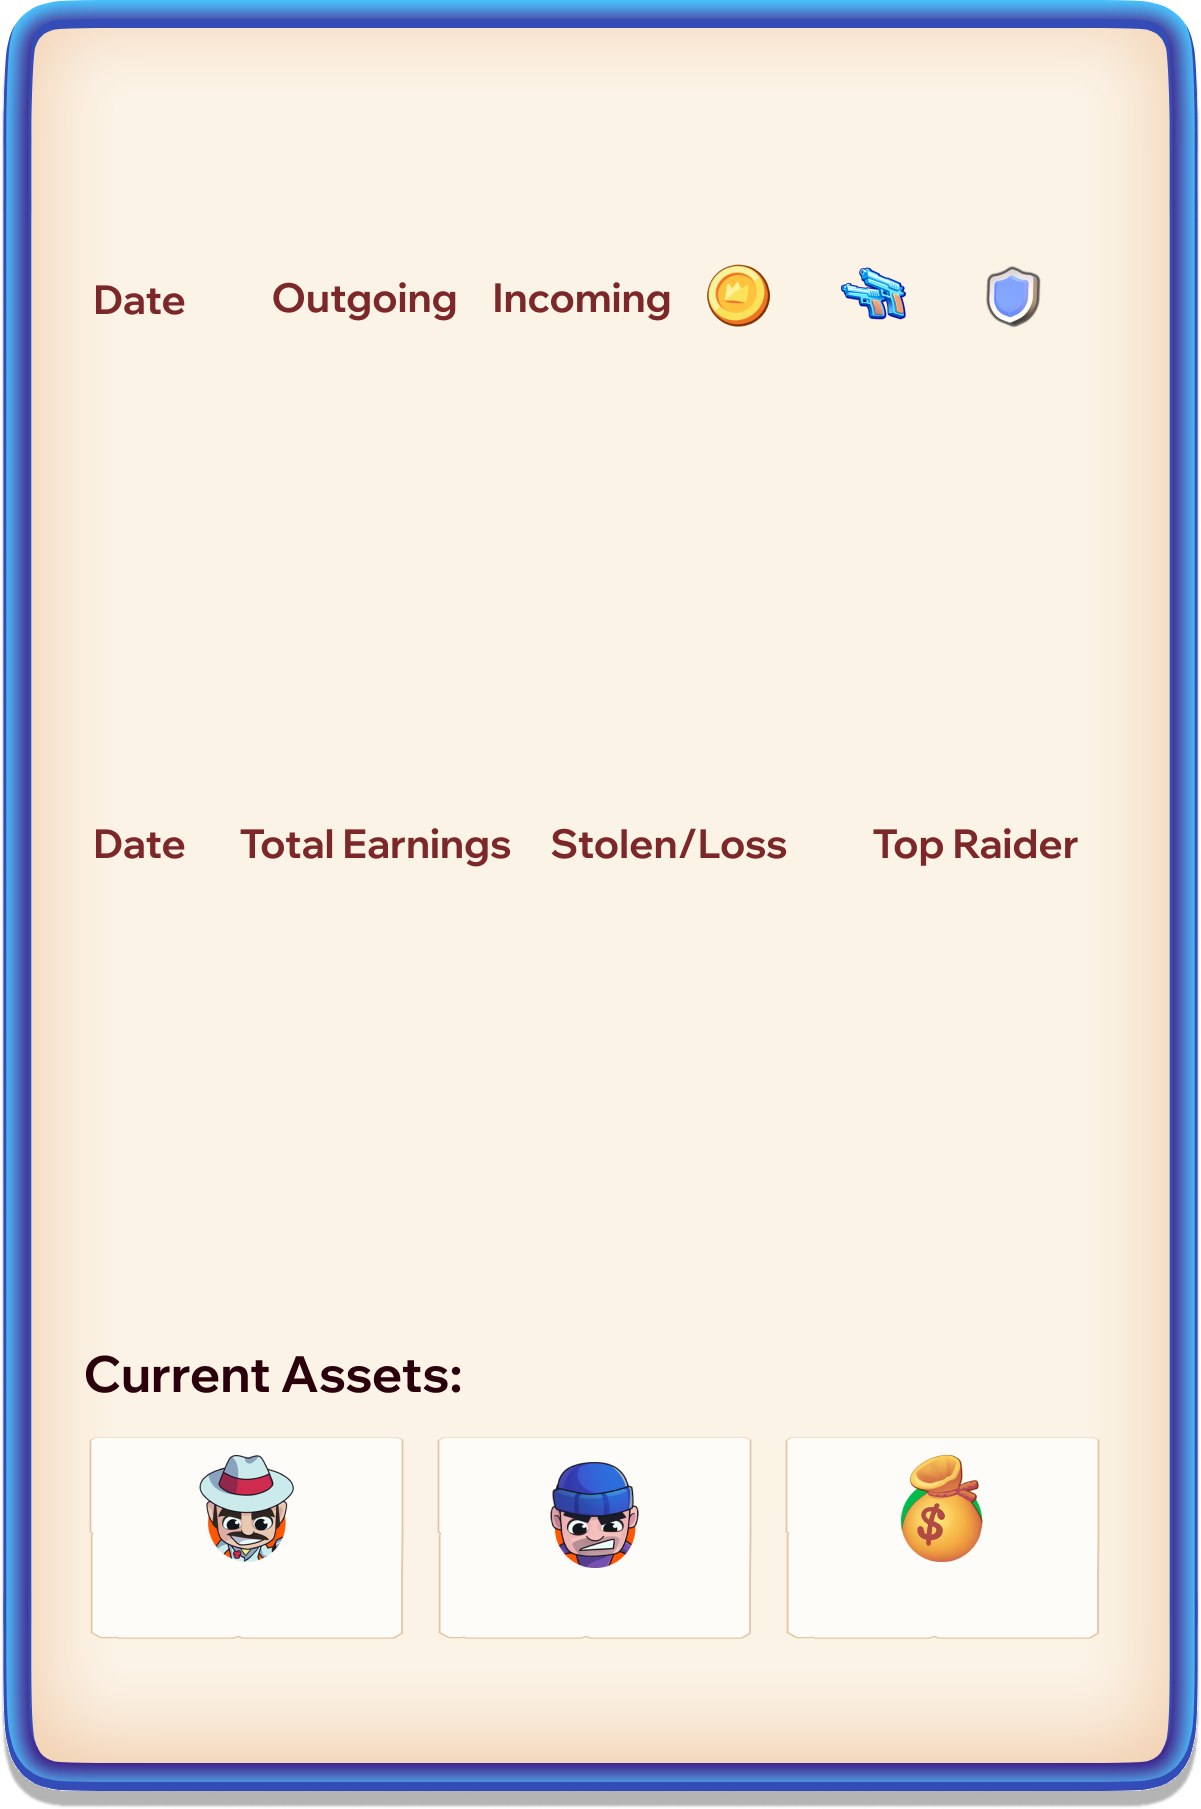
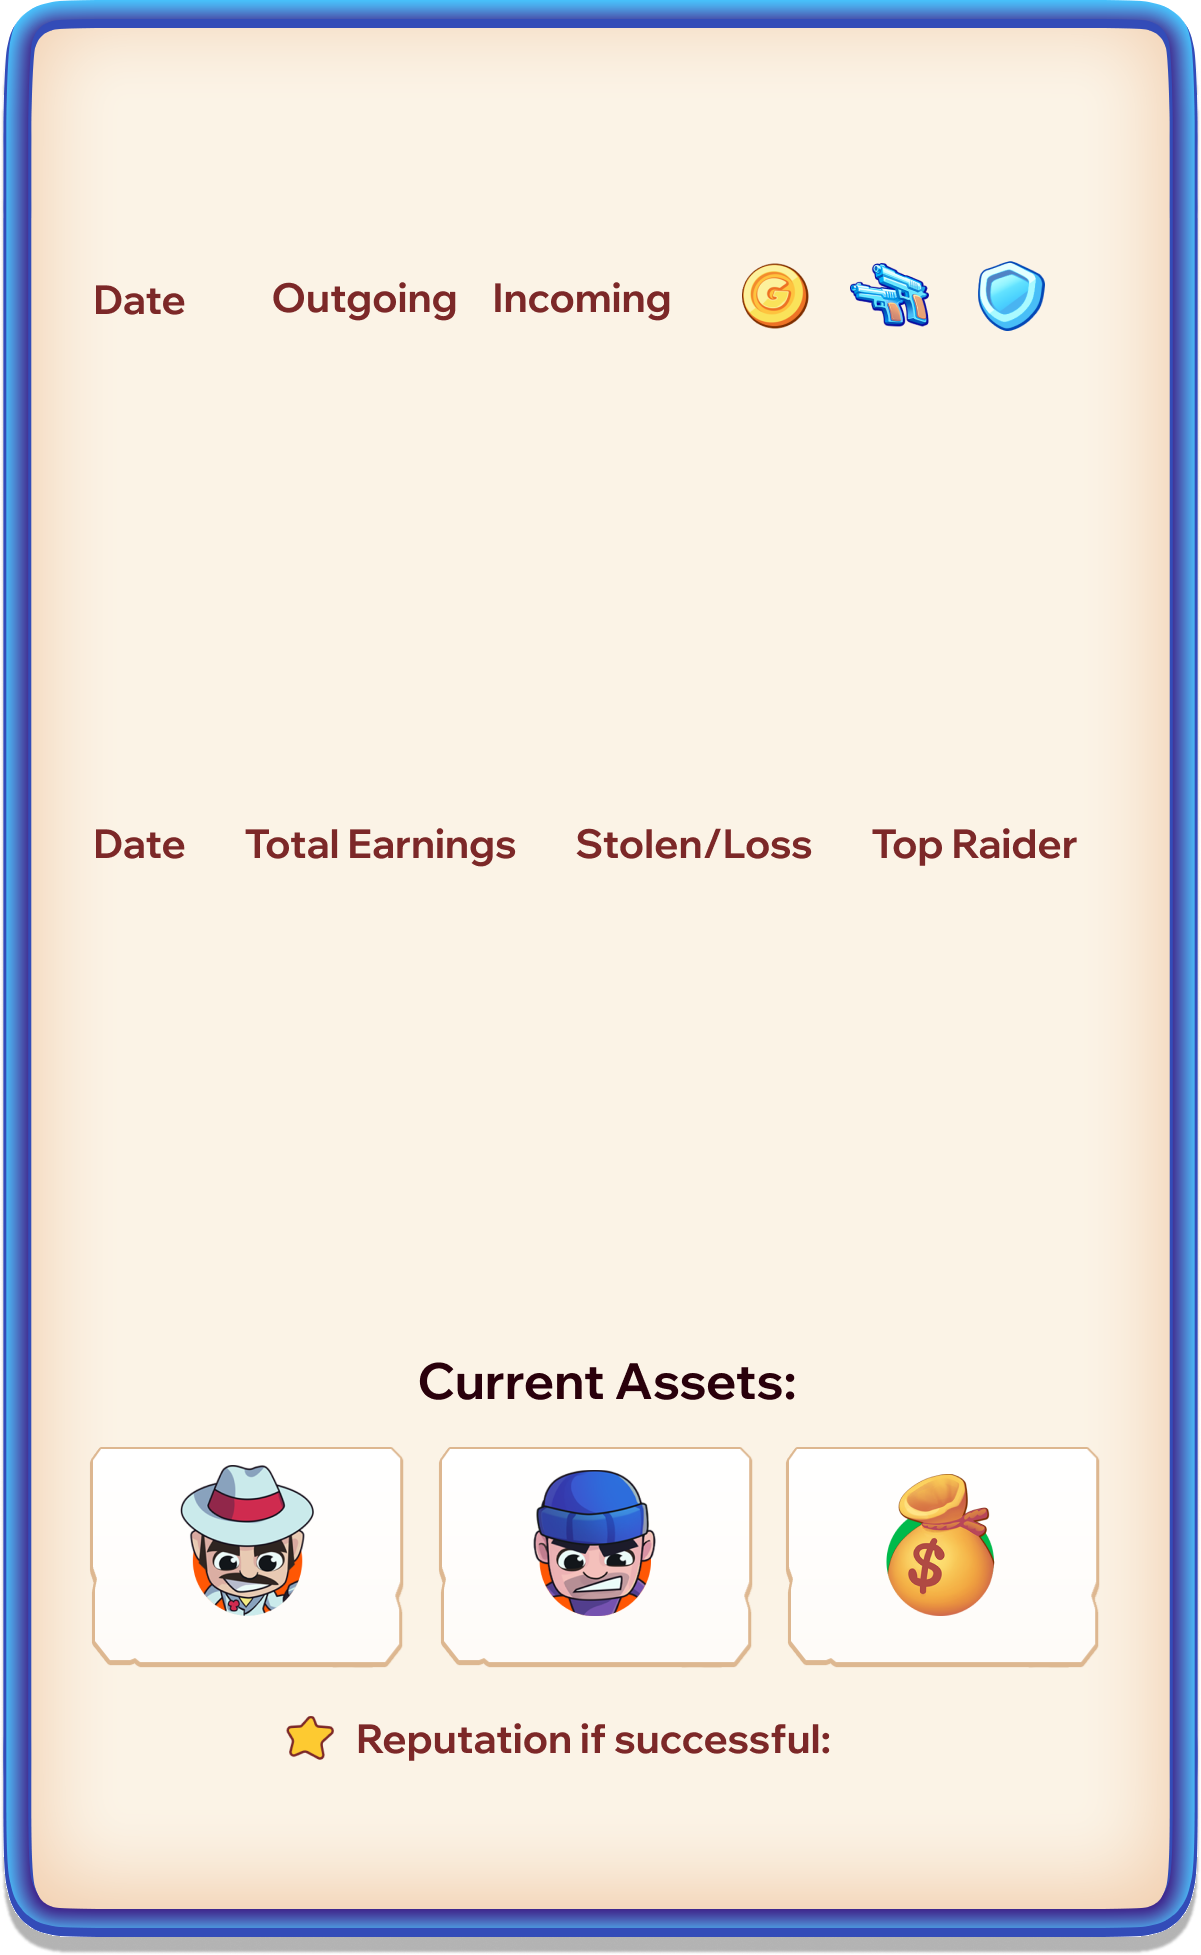
feat: war attack detail new UI

diff --git a/app/src/pages/Game/components/popup/PopupWarAttackDetail.js b/app/src/pages/Game/components/popup/PopupWarAttackDetail.js
@@ -6,6 +6,7 @@ import configs from '../../configs/configs';
 import { colors, fontFamilies, fontSizes } from '../../../../utils/styles';
 import { formatter } from '../../../../utils/numbers';
 import { capitalize, formatUsername } from '../../../../utils/strings';
+import { getReputationWhenWinWar } from '../../../../utils/formulas';
 
 const { width, height } = configs;
 
@@ -27,6 +28,7 @@ class PopupWarAttackDetail extends Popup {
   user = null;
   gamePlay = null;
   warResults = null;
+  attackerNetworth = 0;
   resultListY = height / 2 - this.popup.height / 2 + 350;
   resultItems = [];
   earnItems = [];
@@ -35,6 +37,10 @@ class PopupWarAttackDetail extends Popup {
     super(scene, 'popup-war-attack-detail', { title: 'Profile' });
     this.scene = scene;
     this.earnListY = this.resultListY + 550;
+    const numberOfAssetTextY = height / 2 + this.popup.height / 2 - 340;
+    const numberOfAssetTextGap = 350;
+    const numberOfAssetTextBaseX = width / 2 + 70;
+    const reputationY = numberOfAssetTextY + 120;
 
     this.backBtn = new TextButton(
       scene,
@@ -78,34 +84,40 @@ class PopupWarAttackDetail extends Popup {
       .setOrigin(0.5, 0.5);
     this.add(this.usernameText);
 
-    const numberOfAssetTextY = height / 2 + this.popup.height / 2 - 212;
-    const numberOfAssetTextGap = 350;
     this.numberOfMachinesText = scene.add
-      .text(width / 2 - numberOfAssetTextGap, numberOfAssetTextY, '', {
-        fontSize: '56px',
+      .text(numberOfAssetTextBaseX - numberOfAssetTextGap, numberOfAssetTextY, '', {
+        fontSize: fontSizes.medium,
         color: colors.black,
-        fontFamily: fontFamilies.bold,
+        fontFamily: fontFamilies.extraBold,
       })
       .setOrigin(0.5, 0.5);
     this.add(this.numberOfMachinesText);
 
     this.numberOfWorkersText = scene.add
-      .text(width / 2, numberOfAssetTextY, '', {
-        fontSize: '56px',
+      .text(numberOfAssetTextBaseX, numberOfAssetTextY, '', {
+        fontSize: fontSizes.medium,
         color: colors.black,
-        fontFamily: fontFamilies.bold,
+        fontFamily: fontFamilies.extraBold,
       })
       .setOrigin(0.5, 0.5);
     this.add(this.numberOfWorkersText);
 
     this.numberOfBuildingsText = scene.add
-      .text(width / 2 + numberOfAssetTextGap, numberOfAssetTextY, '', {
-        fontSize: '56px',
+      .text(numberOfAssetTextBaseX + numberOfAssetTextGap, numberOfAssetTextY, '', {
+        fontSize: fontSizes.medium,
         color: colors.black,
-        fontFamily: fontFamilies.bold,
+        fontFamily: fontFamilies.extraBold,
       })
       .setOrigin(0.5, 0.5);
     this.add(this.numberOfBuildingsText);
+    this.gainedReputation = scene.add
+      .text(width / 2 + this.popup.width * 0.22, reputationY, '+0', {
+        fontSize: '40px',
+        color: colors.brown,
+        fontFamily: fontFamilies.extraBold,
+      })
+      .setOrigin(0.5, 0.5);
+    this.add(this.gainedReputation);
 
     this.resultListContainer = scene.add.image(width / 2, this.resultListY, 'container-small').setOrigin(0.5, 0);
     this.add(this.resultListContainer);
@@ -115,8 +127,9 @@ class PopupWarAttackDetail extends Popup {
     this.add(this.earnListContainer);
     this.earnContentContainer = scene.add.container().setSize(this.popup.width * 0.8, 0);
 
-    scene.game.events.on('update-user-to-attack-detail', ({ user, gamePlay, warResults }) => {
+    scene.game.events.on('update-user-to-attack-detail', ({ user, attackerNetworth, gamePlay, warResults }) => {
       this.user = user;
+      this.attackerNetworth = attackerNetworth || 0;
       this.gamePlay = gamePlay;
       this.warResults = warResults;
       this.updateDetail();
@@ -142,10 +155,12 @@ class PopupWarAttackDetail extends Popup {
     const { username } = this.user;
     this.usernameText.text = username;
 
-    const { numberOfMachines, numberOfWorkers, numberOfBuildings } = this.gamePlay;
+    const { numberOfMachines, numberOfWorkers, numberOfBuildings, networth } = this.gamePlay;
     this.numberOfMachinesText.text = `${formatter.format(numberOfMachines)}`;
     this.numberOfWorkersText.text = `${formatter.format(numberOfWorkers)}`;
     this.numberOfBuildingsText.text = `${formatter.format(numberOfBuildings)}`;
+    const gainedReputation = getReputationWhenWinWar(this.attackerNetworth, networth);
+    this.gainedReputation.text = `+${formatter.format(gainedReputation)}`;
 
     // clear old items
     this.resultItems.map((item) => {
@@ -235,20 +250,20 @@ class PopupWarAttackDetail extends Popup {
         })
         .setOrigin(0.5, 0.5);
       const earnUnitsText = this.scene.add
-        .text(this.popup.width * 0.55, y + rowHeight / 2, `${formatter.format(earnUnits)}`, smallBlackBoldCenter)
+        .text(this.popup.width * 0.58, y + rowHeight / 2, `${formatter.format(earnUnits)}`, smallBlackBoldCenter)
         .setOrigin(0.5, 0.5);
       const attackUnitsText = this.scene.add
-        .text(this.popup.width * 0.67, y + rowHeight / 2, `${formatter.format(attackUnits)}`, smallBlackBoldCenter)
+        .text(this.popup.width * 0.68, y + rowHeight / 2, `${formatter.format(attackUnits)}`, smallBlackBoldCenter)
         .setOrigin(0.5, 0.5);
       const defendUnitsText = this.scene.add
-        .text(this.popup.width * 0.77, y + rowHeight / 2, `${formatter.format(defendUnits)}`, smallBlackBoldCenter)
+        .text(this.popup.width * 0.78, y + rowHeight / 2, `${formatter.format(defendUnits)}`, smallBlackBoldCenter)
         .setOrigin(0.5, 0.5);
 
       const tokenEarnedText = this.scene.add
         .text(this.popup.width * 0.23, y + rowHeight / 2, `+${formatter.format(tokenEarned)}`, smallBlackBoldCenter)
         .setOrigin(0.5, 0.5);
       const tokenEarnedIcon = this.scene.add
-        .image(this.popup.width * 0.23 + tokenEarnedText.width / 2 + 30, y + rowHeight / 2, 'coin3')
+        .image(this.popup.width * 0.23 + tokenEarnedText.width / 2 + 40, y + rowHeight / 2, 'icon-coin-outlined-small')
         .setOrigin(0.5, 0.5);
 
       const tokenLossText = this.scene.add
@@ -258,7 +273,7 @@ class PopupWarAttackDetail extends Popup {
         })
         .setOrigin(0.5, 0.5);
       const tokenLossIcon = this.scene.add
-        .image(this.popup.width * 0.47 + tokenLossText.width / 2 + 30, y + rowHeight / 2, 'coin3')
+        .image(this.popup.width * 0.47 + tokenLossText.width / 2 + 40, y + rowHeight / 2, 'icon-coin-outlined-small')
         .setOrigin(0.5, 0.5);
 
       const topAttackerText = this.scene.add

diff --git a/backend/services/warSnapshot.service.js b/backend/services/warSnapshot.service.js
@@ -10,6 +10,7 @@ import { getUserUsernames } from './user.service.js';
 import { getUserGamePlay } from './gamePlay.service.js';
 import logger from '../utils/logger.js';
 import { getAccurate } from '../utils/math.js';
+import { getReputationWhenWinWar } from '../utils/formulas.js';
 
 const MAX_RETRY = 3;
 
@@ -217,15 +218,7 @@ export const generateDailyWarSnapshot = async () => {
 
       if (totalAttackUnits > attackedUser.defendUnits) {
         // winners gain reputation
-        let gainedReputationPercent = 0;
-        const reputationRatio = attackedUser.networth / networth;
-
-        if (reputationRatio > 10) gainedReputationPercent = 0.005;
-        else if (reputationRatio > 5) gainedReputationPercent = 0.004;
-        else if (reputationRatio > 3) gainedReputationPercent = 0.003;
-        else if (reputationRatio > 2) gainedReputationPercent = 0.002;
-        else if (reputationRatio > 1) gainedReputationPercent = 0.001;
-        user.gainedReputation = Math.round(attackedUser.networth * gainedReputationPercent);
+        user.gainedReputation = getReputationWhenWinWar(networth, attackedUser.networth);
 
         const stolenToken = Math.floor(attackContribution * earningStealPercent * attackedUser.tokenEarnFromEarning);
         user.tokenEarnFromAttacking = stolenToken;
@@ -607,7 +600,7 @@ export const getUserToAttackDetail = async (userId) => {
   const userGamePlay = await getUserGamePlay(userId);
   if (!userGamePlay) throw new Error('API error: Bad request - cannot find game play');
 
-  const { numberOfMachines, numberOfWorkers, numberOfBuildings } = userGamePlay;
+  const { numberOfMachines, numberOfWorkers, numberOfBuildings, networth } = userGamePlay;
 
   const seasonId = await getActiveSeasonId();
   const warHistorySnapshot = await firestore
@@ -640,7 +633,7 @@ export const getUserToAttackDetail = async (userId) => {
 
   return {
     user: { id: userId, username: usernames[userId] },
-    gamePlay: { numberOfMachines, numberOfWorkers, numberOfBuildings },
+    gamePlay: { numberOfMachines, numberOfWorkers, numberOfBuildings, networth },
     warResults,
   };
 };

diff --git a/app/src/pages/Game/scenes/LoadingScene.js b/app/src/pages/Game/scenes/LoadingScene.js
@@ -156,7 +156,6 @@ class LoadingScene extends Phaser.Scene {
 
     this.load.image('glow', '/images/glow.png');
     this.load.image('coin', '/images/coin.png');
-    this.load.image('coin3', '/images/coin-3.png');
     this.load.image('guard', '/images/guard.png');
     this.load.image('mini-gangster-2', '/images/mini-gangster-2.png');
     this.load.image('percent', '/images/percent.png');
@@ -327,6 +326,7 @@ class LoadingScene extends Phaser.Scene {
     this.load.image('icon-coin-mini', '/images/icons/coin-mini.png');
     this.load.image('icon-coin-done', '/images/icons/coin-done.png');
     this.load.image('icon-coin-glowing', '/images/icons/coin-glowing.png');
+    this.load.image('icon-coin-outlined-small', '/images/icons/coin-outlined-small.png');
     this.load.image('icon-crown-gold', '/images/icons/crown-gold.png');
     this.load.image('icon-crown-silver', '/images/icons/crown-silver.png');
     this.load.image('icon-crown-copper', '/images/icons/crown-copper.png');

diff --git a/app/src/utils/formulas.js b/app/src/utils/formulas.js
@@ -174,3 +174,17 @@ export const calculateUpgradeBuildingPrice = (currentLevel) => {
   const nextLevel = currentLevel + 1;
   return Math.pow(nextLevel, 1.5) * 1000;
 };
+
+export const getReputationWhenWinWar = (attackerNetworth, defenderNetworth) => {
+  let gainedReputationPercent = 0;
+  const reputationRatio = defenderNetworth / attackerNetworth;
+
+  if (reputationRatio > 10) gainedReputationPercent = 0.005;
+  else if (reputationRatio > 5) gainedReputationPercent = 0.004;
+  else if (reputationRatio > 3) gainedReputationPercent = 0.003;
+  else if (reputationRatio > 2) gainedReputationPercent = 0.002;
+  else if (reputationRatio > 1) gainedReputationPercent = 0.001;
+  const gainedReputation = Math.round(defenderNetworth * gainedReputationPercent);
+
+  return gainedReputation;
+};

diff --git a/backend/utils/formulas.js b/backend/utils/formulas.js
@@ -144,3 +144,17 @@ export const calculateUpgradeBuildingPrice = (currentLevel) => {
   const nextLevel = currentLevel + 1;
   return Math.pow(nextLevel, 1.5) * 1000;
 };
+
+export const getReputationWhenWinWar = (attackerNetworth, defenderNetworth) => {
+  let gainedReputationPercent = 0;
+  const reputationRatio = defenderNetworth / attackerNetworth;
+
+  if (reputationRatio > 10) gainedReputationPercent = 0.005;
+  else if (reputationRatio > 5) gainedReputationPercent = 0.004;
+  else if (reputationRatio > 3) gainedReputationPercent = 0.003;
+  else if (reputationRatio > 2) gainedReputationPercent = 0.002;
+  else if (reputationRatio > 1) gainedReputationPercent = 0.001;
+  const gainedReputation = Math.round(defenderNetworth * gainedReputationPercent);
+
+  return gainedReputation;
+};

diff --git a/app/src/pages/Game/index.js b/app/src/pages/Game/index.js
@@ -1326,7 +1326,12 @@ const Game = () => {
         getUserDetailToAttack(userId)
           .then((res) => {
             const { user, gamePlay, warResults } = res.data;
-            gameRef.current?.events.emit('update-user-to-attack-detail', { user, gamePlay, warResults });
+            gameRef.current?.events.emit('update-user-to-attack-detail', {
+              user,
+              attackerNetworth: networth,
+              gamePlay,
+              warResults,
+            });
           })
           .catch((err) => {
             console.error(err);
